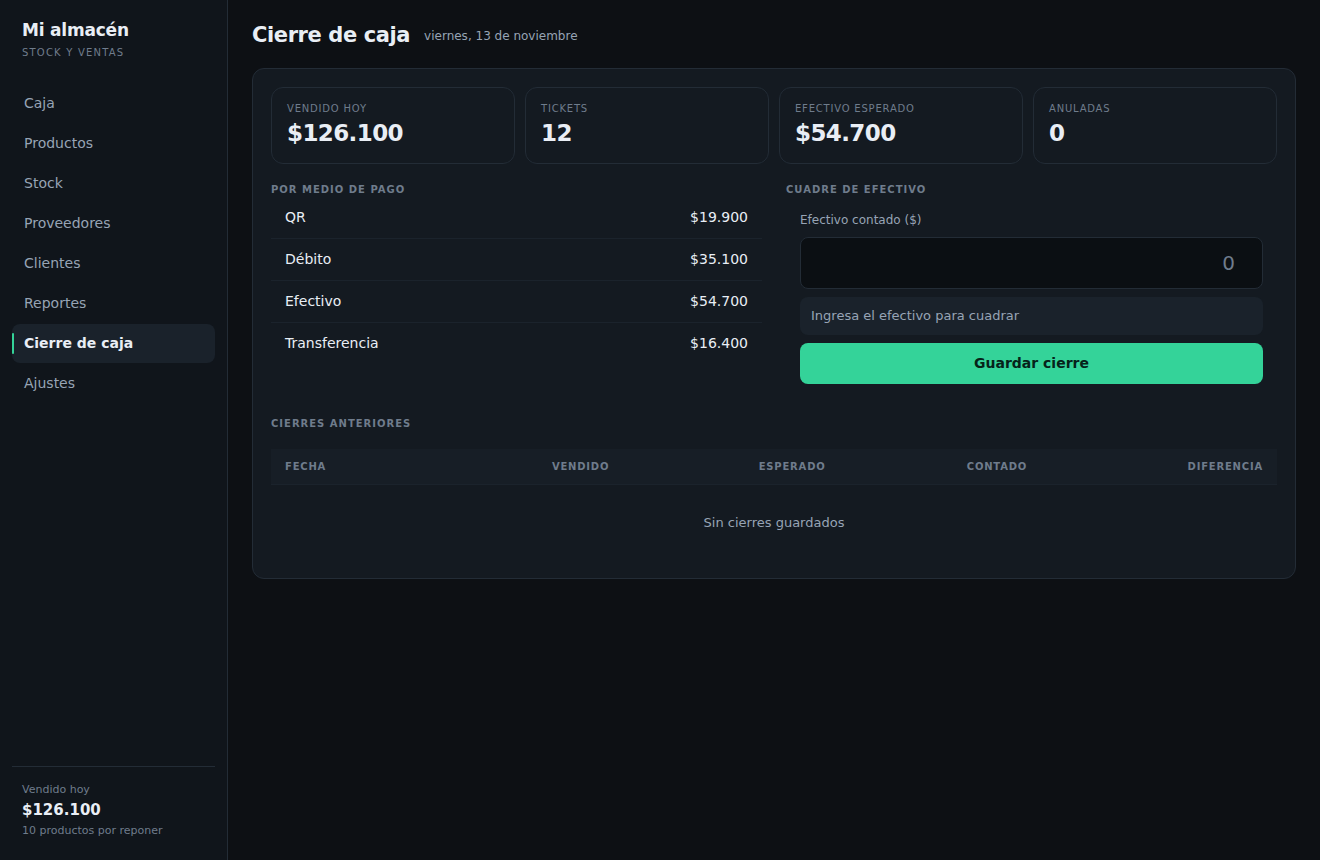
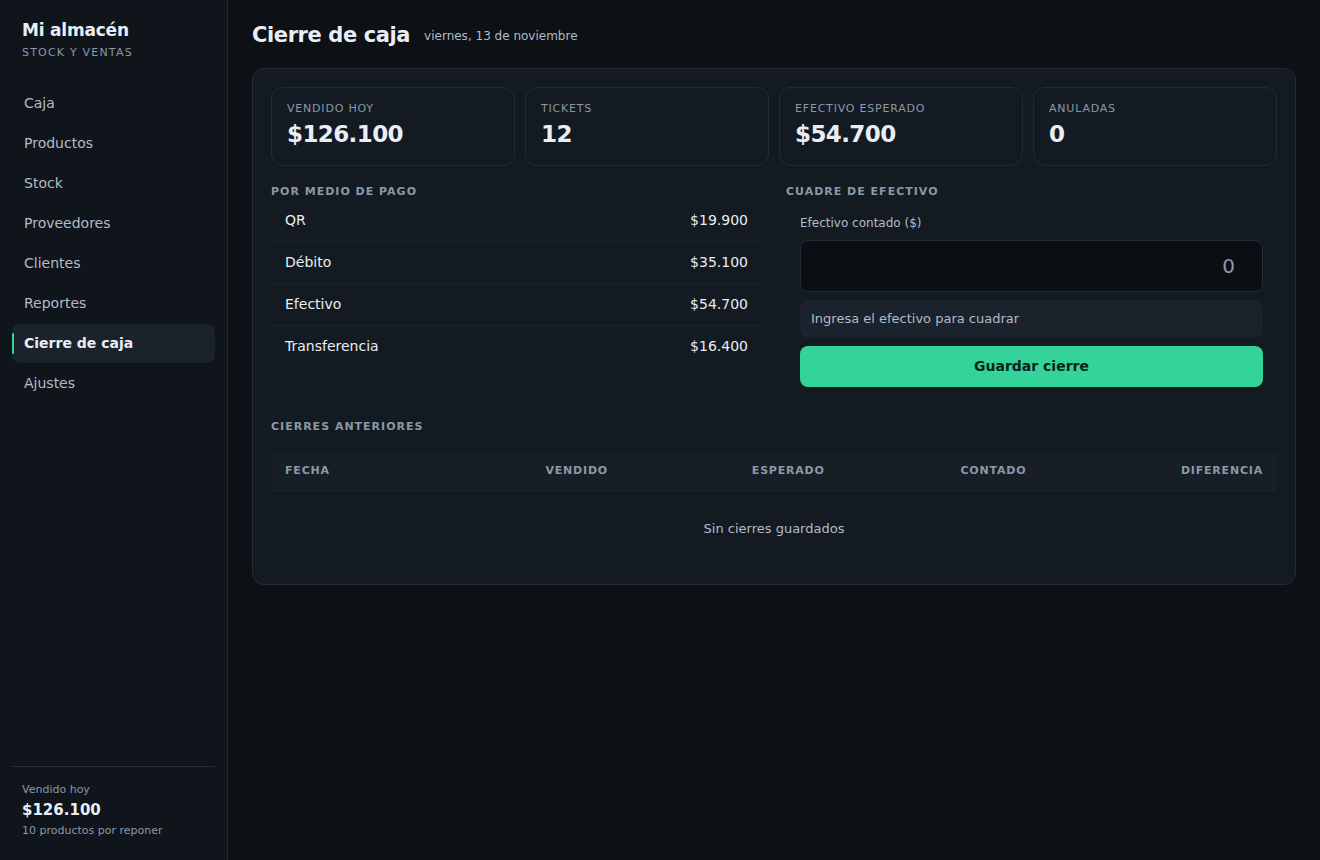
Accesibilidad: subir contraste de etiquetas (4.1:1 → 6.0:1) y piso de 11px en texto funcional

diff --git a/src/renderer/styles.css b/src/renderer/styles.css
@@ -14,8 +14,8 @@
 
   /* texto */
   --texto: #e9eef5;
-  --tenue: #97a4b5;
-  --apagado: #6f7c8c;
+  --tenue: #b0bcc9;
+  --apagado: #8b98a8;
 
   /* acento y estados */
   --acento: #34d399;
@@ -78,7 +78,7 @@ button, input, select { font: inherit; color: inherit; }
 }
 .marca span {
   color: var(--apagado);
-  font-size: 10px;
+  font-size: 11px;
   letter-spacing: 1.2px;
   text-transform: uppercase;
 }
@@ -214,7 +214,7 @@ button.chico { padding: 5px 10px; font-size: 12px; border-radius: 7px; }
 }
 .producto:hover { border-color: #3b4b5c; background: #171e26; transform: translateY(-1px); }
 .producto:active { transform: translateY(0); }
-.producto .c { color: var(--apagado); font-size: 10px; letter-spacing: 0.7px; text-transform: uppercase; }
+.producto .c { color: var(--apagado); font-size: 11px; letter-spacing: 0.7px; text-transform: uppercase; }
 .producto .n { font-weight: 600; line-height: 1.3; font-size: 13px; }
 .producto .p { color: var(--acento); font-weight: 700; font-variant-numeric: tabular-nums; }
 .producto .s { color: var(--tenue); font-size: 11px; font-variant-numeric: tabular-nums; }
@@ -362,7 +362,7 @@ kbd {
   border-radius: 5px;
   background: #171e26;
   color: var(--tenue);
-  font: 600 10px/1.4 ui-monospace, monospace;
+  font: 600 11px/1.4 ui-monospace, monospace;
   text-align: center;
 }
 
@@ -383,7 +383,7 @@ th, td { text-align: left; padding: 10px 14px; border-bottom: 1px solid var(--li
 th {
   position: sticky; top: 0; z-index: 1;
   background: #171e26;
-  font-size: 10px;
+  font-size: 11px;
   font-weight: 600;
   letter-spacing: 0.8px;
   text-transform: uppercase;
@@ -413,7 +413,7 @@ td.rojo { color: var(--peligro); }
   border-radius: var(--radio);
   padding: 13px 15px;
 }
-.kpi span { display: block; color: var(--apagado); font-size: 10px; letter-spacing: 0.8px; text-transform: uppercase; }
+.kpi span { display: block; color: var(--apagado); font-size: 11px; letter-spacing: 0.8px; text-transform: uppercase; }
 .kpi strong { font-size: 23px; font-weight: 700; letter-spacing: -0.6px; font-variant-numeric: tabular-nums; }
 .kpis.chicos .kpi strong { font-size: 17px; }
 
@@ -444,11 +444,11 @@ td.rojo { color: var(--peligro); }
   border-radius: 6px 6px 2px 2px;
   background: linear-gradient(180deg, var(--acento), #1f7a5c);
 }
-.barra-dia small { color: var(--apagado); font-size: 10px; font-variant-numeric: tabular-nums; }
+.barra-dia small { color: var(--apagado); font-size: 11px; font-variant-numeric: tabular-nums; }
 
 .titulo-seccion {
   margin: 0;
-  font-size: 10px;
+  font-size: 11px;
   font-weight: 600;
   letter-spacing: 1px;
   text-transform: uppercase;
